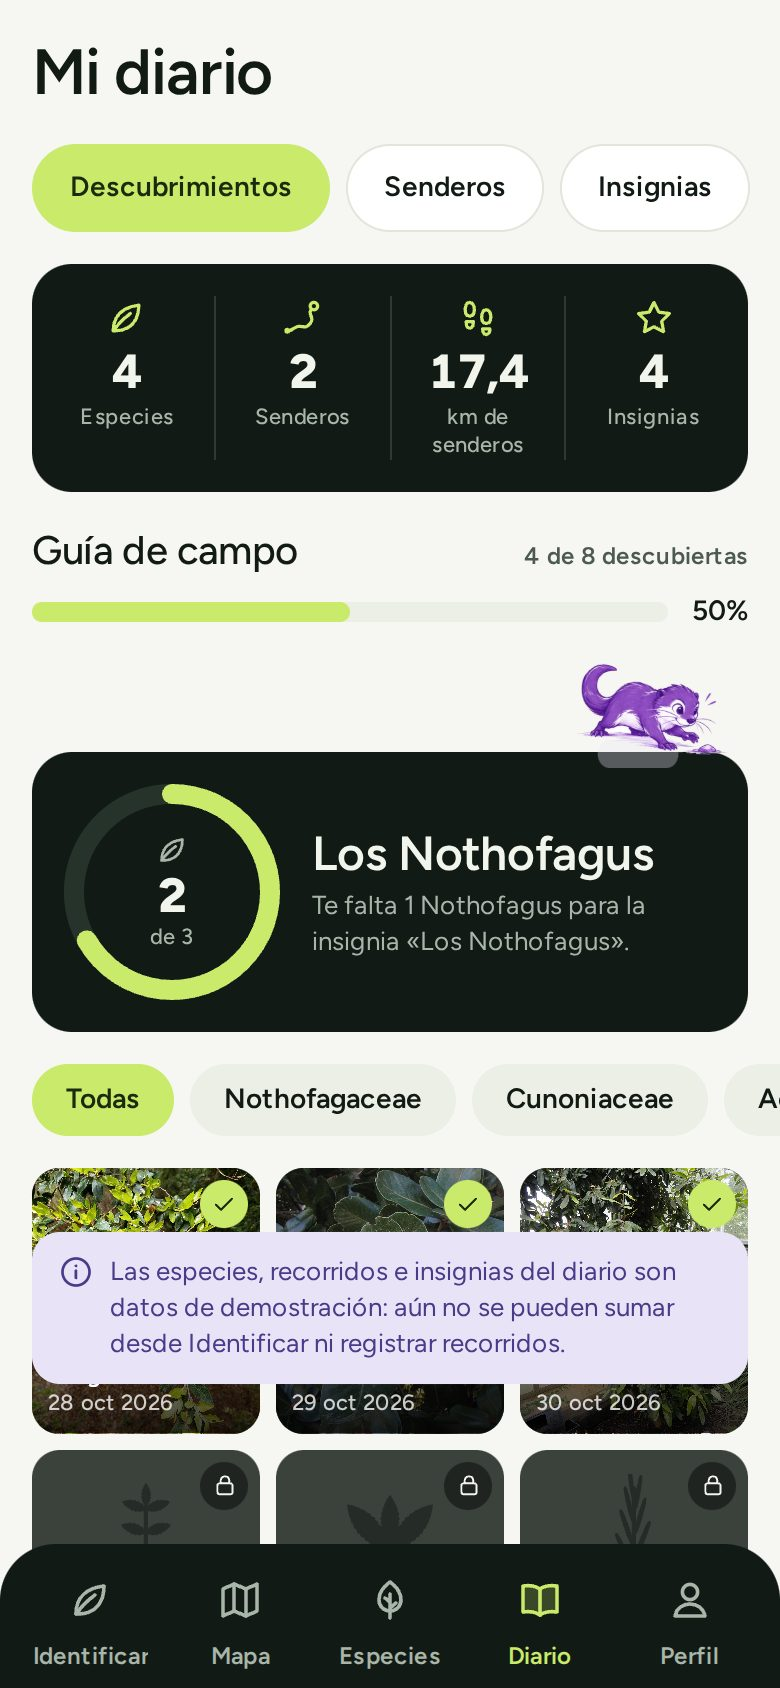
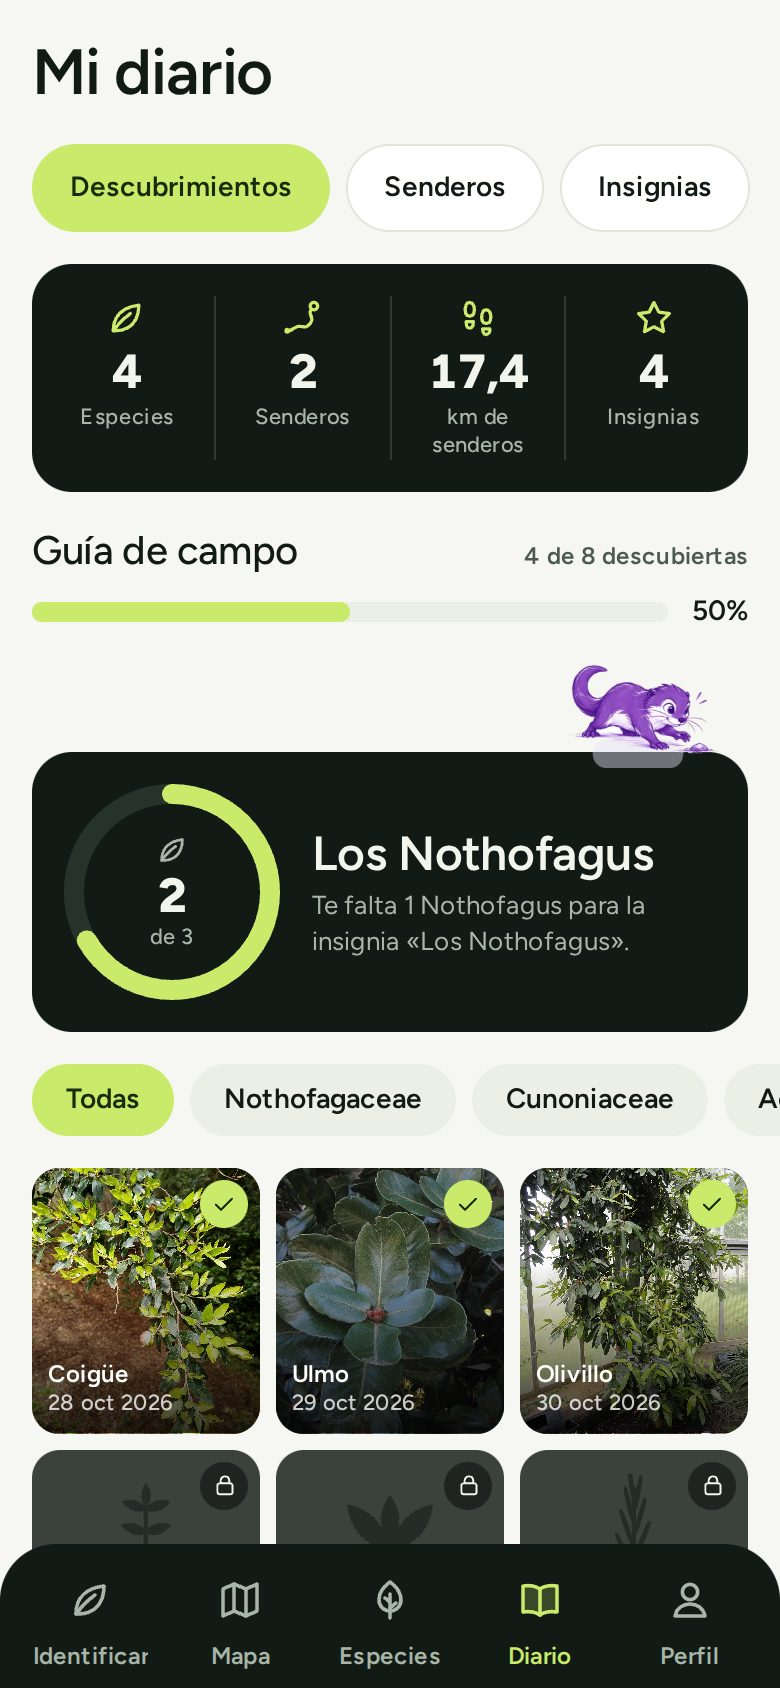
docs(readme): document mobile app tabs and add more screenshots
Expand the "App móvil" section with a table of what each tab does, four more screenshots (species, journal trails, badges, profile) and a journal screenshot without the floating demo banner of the web build.

Changed region(s): [[0.0308, 0.7085, 0.9846, 0.8318], [0.7385, 0.3697, 0.9231, 0.4621]]

diff --git a/README.md b/README.md
@@ -60,24 +60,46 @@ Esta es una respuesta real, generada el 03-11-2026 a partir de audio real. Aquí
 
 ## App móvil
 
-El cliente de la demo es una app Expo / React Native pensada para Android, sin cuenta. Tiene cinco pestañas: **Identificar**, **Mapa**, **Especies**, **Diario** y **Perfil**.
+El cliente de la demo es una app Expo / React Native pensada para Android, que también corre en iOS y en la web. No pide cuenta: el perfil y el diario viven en el teléfono. Al abrirla, Wilo presenta la app y luego quedan cinco pestañas.
 
 <table>
   <tr>
     <td align="center" width="25%"><img src="docs/assets/mobile/onboarding.jpg" width="180" alt="Bienvenida: Wilo, un huillín ilustrado, se presenta como guía"></td>
     <td align="center" width="25%"><img src="docs/assets/mobile/identify-wilo.jpg" width="180" alt="Identificar: sugerencia «Podría ser Coigüe» y chat con Wilo sobre la especie"></td>
     <td align="center" width="25%"><img src="docs/assets/mobile/atlas.jpg" width="180" alt="Mapa: ficha del Parque Nacional Puyehue con hectáreas, sectores y aviso de apertura no verificada"></td>
-    <td align="center" width="25%"><img src="docs/assets/mobile/journal.jpg" width="180" alt="Diario: guía de campo con especies descubiertas e insignias"></td>
+    <td align="center" width="25%"><img src="docs/assets/mobile/species.jpg" width="180" alt="Especies: catálogo con fotos de referencia, familia y rasgos, rotulado como provisional"></td>
   </tr>
   <tr>
     <td align="center"><sub><b>Wilo te recibe</b><br>presentación del guía</sub></td>
-    <td align="center"><sub><b>Identifica y pregunta</b><br>sugerencia, no veredicto; chat por voz o texto</sub></td>
-    <td align="center"><sub><b>Explora el parque</b><br>46 parques CONAF, avisos y fotos con licencia</sub></td>
-    <td align="center"><sub><b>Tu diario</b><br>guía de campo, senderos e insignias</sub></td>
+    <td align="center"><sub><b>Identifica y pregunta</b><br>sugerencia, no veredicto</sub></td>
+    <td align="center"><sub><b>Explora el parque</b><br>ficha, avisos y fotos con licencia</sub></td>
+    <td align="center"><sub><b>Consulta especies</b><br>catálogo con filtros y búsqueda</sub></td>
+  </tr>
+  <tr>
+    <td align="center"><img src="docs/assets/mobile/journal.jpg" width="180" alt="Diario: estadísticas, avance de la guía de campo y especies descubiertas"></td>
+    <td align="center"><img src="docs/assets/mobile/trails.jpg" width="180" alt="Diario, Senderos: kilómetros acumulados y salidas al sendero de demostración"></td>
+    <td align="center"><img src="docs/assets/mobile/badges.jpg" width="180" alt="Diario, Insignias: próxima insignia y medallas ganadas"></td>
+    <td align="center"><img src="docs/assets/mobile/profile.jpg" width="180" alt="Perfil: nivel Bronce, próximos niveles y mensaje de Wilo"></td>
+  </tr>
+  <tr>
+    <td align="center"><sub><b>Tu guía de campo</b><br>lo que ya descubriste</sub></td>
+    <td align="center"><sub><b>Tus recorridos</b><br>kilómetros y salidas</sub></td>
+    <td align="center"><sub><b>Insignias</b><br>metas de la guía y los senderos</sub></td>
+    <td align="center"><sub><b>Tu perfil</b><br>niveles e historial</sub></td>
   </tr>
 </table>
 
-<sub>Capturas del build web en modo demostración (sin llamadas a Meta), 04-11-2026. La foto del Coigüe es una referencia CC0 de Wikimedia Commons, no tomada en Puyehue; los datos del Diario son de demostración. Más detalle en [apps/mobile/docs](apps/mobile/docs/README.md).</sub>
+| Pestaña | Qué hace |
+| --- | --- |
+| **Identificar** | Fotografía hojas o corteza, o elige una foto de la galería. Antes del primer envío, la persona confirma que es mayor de 18 años, que acepta el procesamiento en Meta Model API y que tiene derechos sobre la foto. Muse Spark sugiere una especie del catálogo («Podría ser…») o se abstiene; nunca la presenta como identificación verificada. Después, **Wilo** conversa sobre esa especie por texto o por voz, con preguntas sugeridas, y avisa cuando no tiene evidencia suficiente. La app no guarda la foto. |
+| **Mapa** | Mapa de parques nacionales con imagen satelital u OpenStreetMap. El Parque Nacional Puyehue tiene ficha con superficie, sectores, avisos de visita y fotos con licencia, además de un sendero de demostración con especies y puntos de interés. Hay una lista textual equivalente al mapa. El límite del parque es aproximado, la apertura no está verificada y el trazado del sendero es sintético. |
+| **Especies** | Catálogo de ocho árboles nativos con nombre común y científico, familia, rasgos para distinguirlos, estado de conservación y fuentes. Permite buscar, filtrar por familia y guardar especies. Las fichas se rotulan como *provisionales* hasta que las revise un especialista. |
+| **Diario** | Tres vistas. **Descubrimientos**: la guía de campo, con el avance hacia completar el catálogo. **Senderos**: los recorridos y kilómetros acumulados. **Insignias**: las metas ganadas y la siguiente. |
+| **Perfil** | Perfil local sin cuenta: nombre visible, avatar, nivel (Brote, Bronce, Plata, Oro) e historial de actividad derivados del Diario. Desde los ajustes se cambian el tema claro u oscuro y se consulta la privacidad. |
+
+Wilo e Identificar llaman a la API pública solo con `EXPO_PUBLIC_WILO_LIVE=true` o `EXPO_PUBLIC_IDENTIFY_LIVE=true`. Sin esas variables, la app simula las respuestas en el teléfono y lo indica en pantalla.
+
+<sub>Capturas del build web en modo demostración (sin llamadas a Meta), 04-11-2026. La foto del Coigüe es una referencia CC0 de Wikimedia Commons, no tomada en Puyehue. El Diario y el Perfil todavía usan datos de demostración: aún no se alimentan desde Identificar. Arquitectura, privacidad y distribución del APK en [apps/mobile/docs](apps/mobile/docs/README.md).</sub>
 
 ## Arquitectura
 
